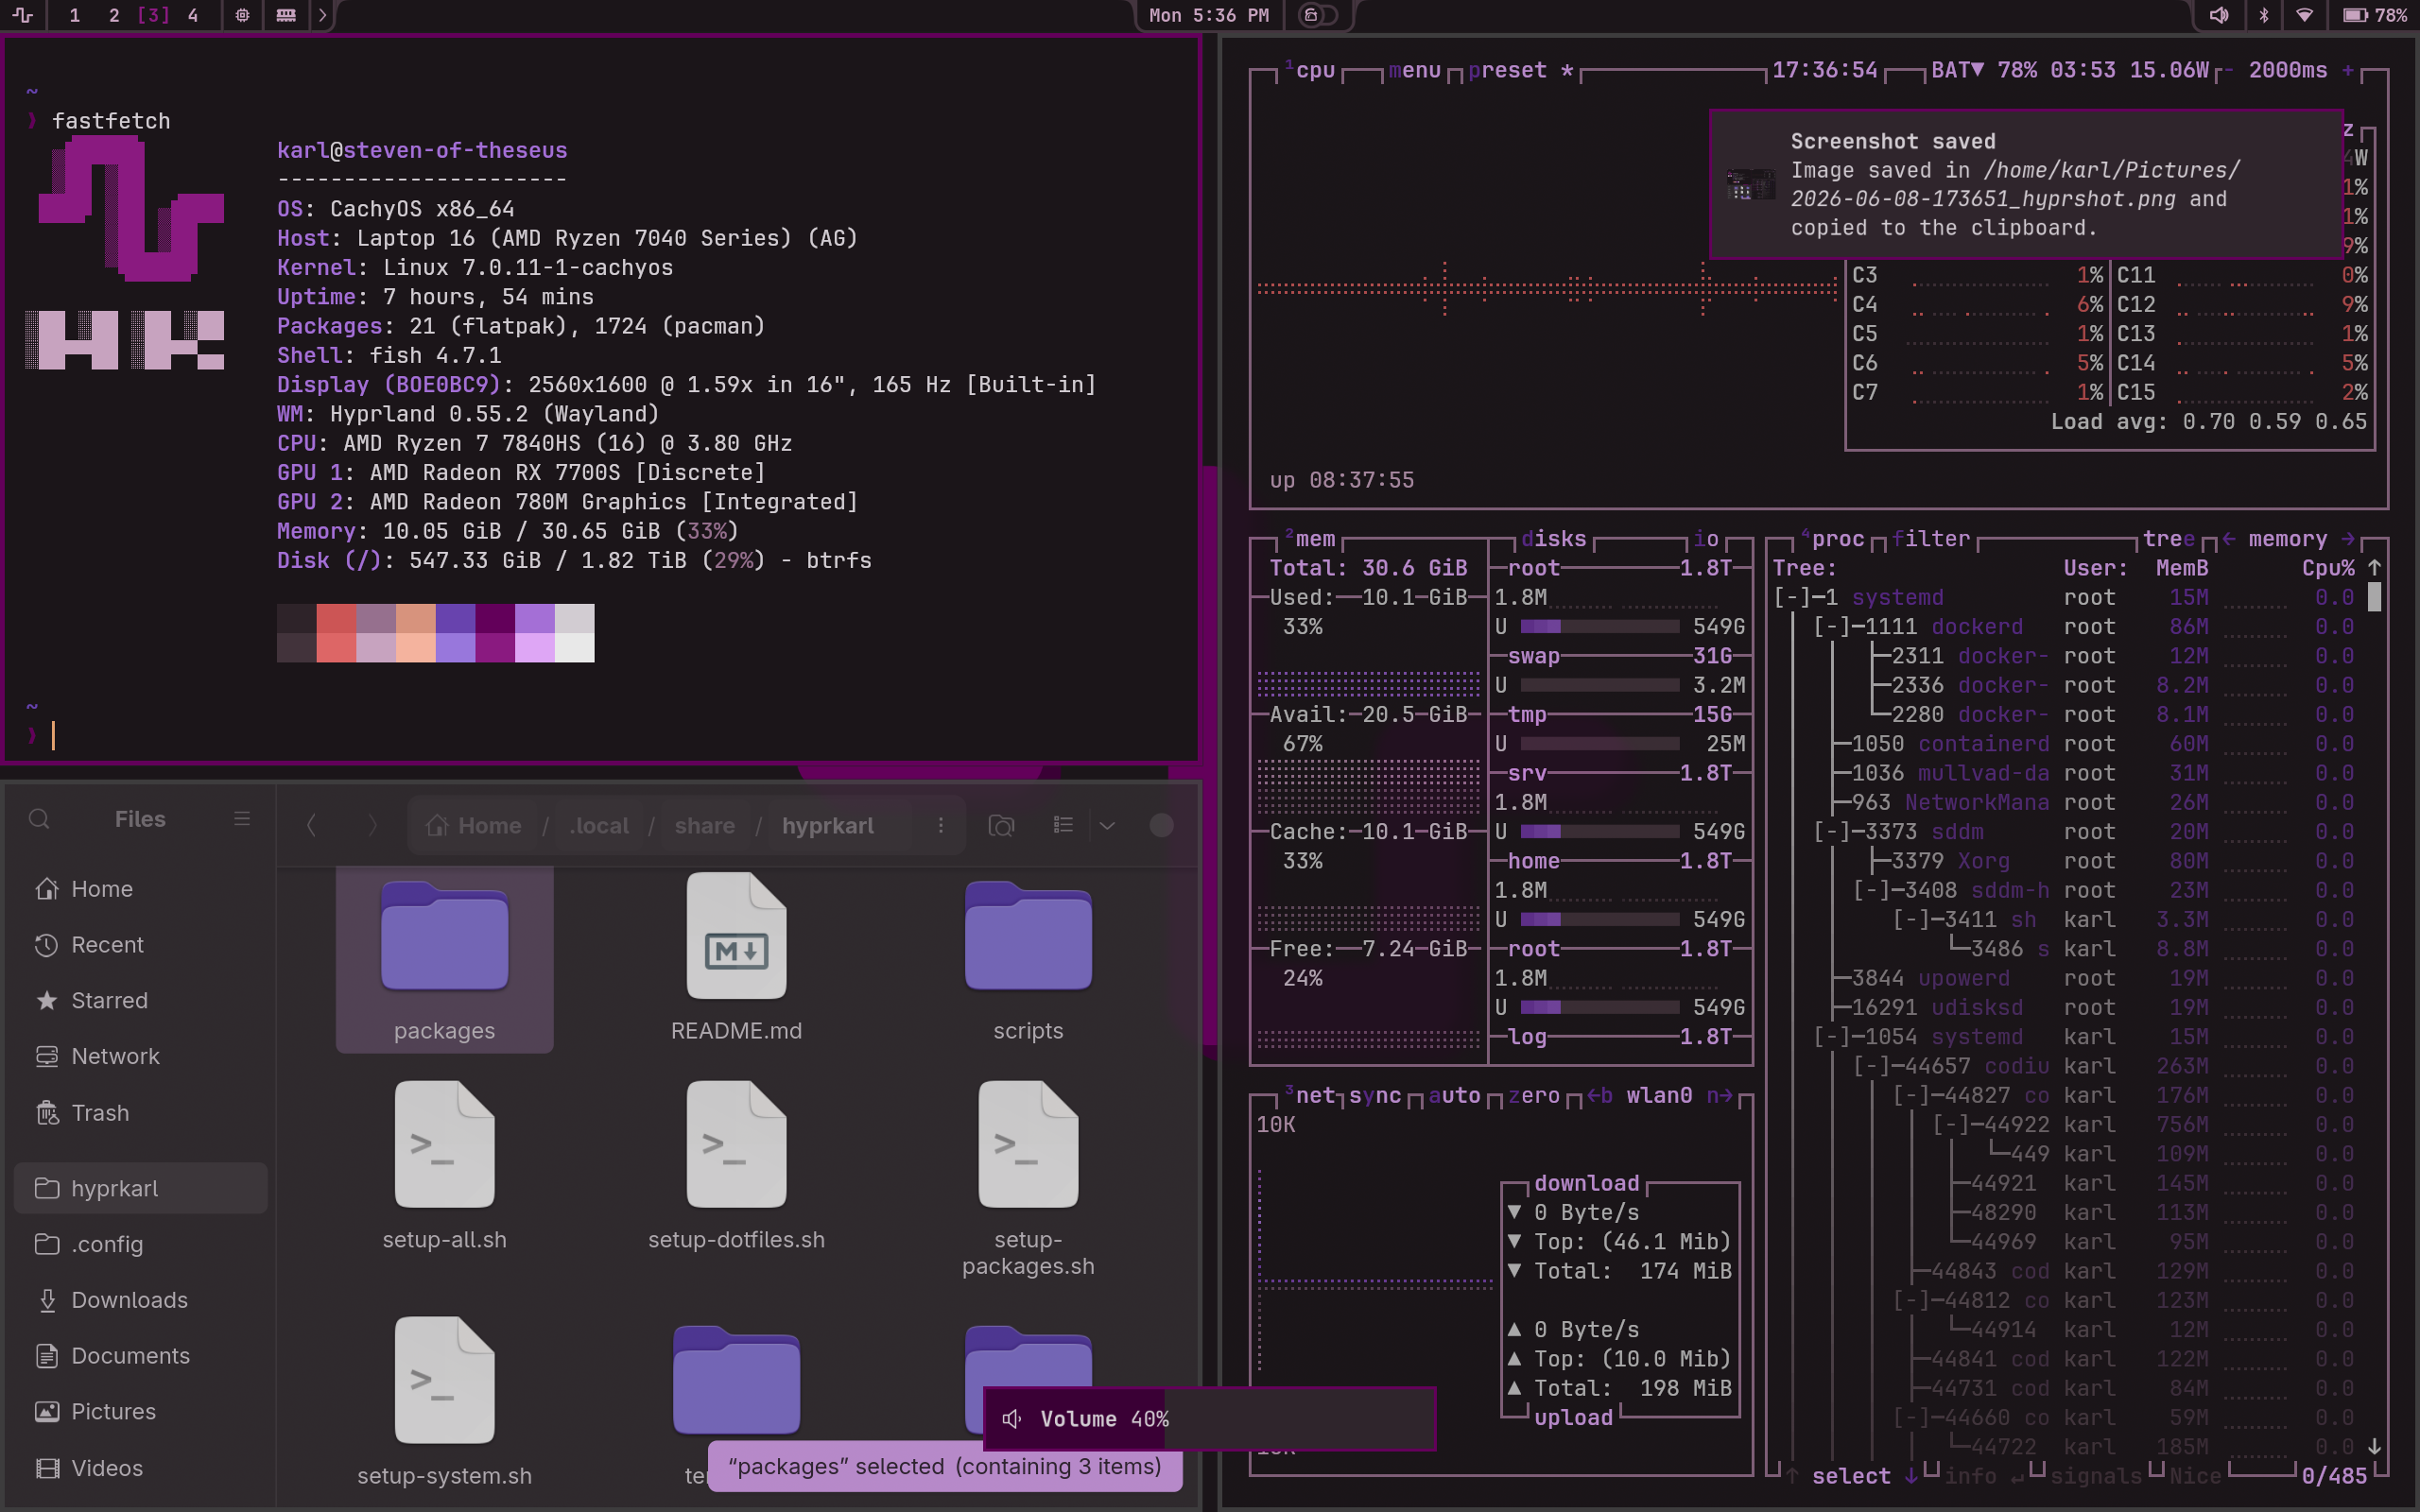
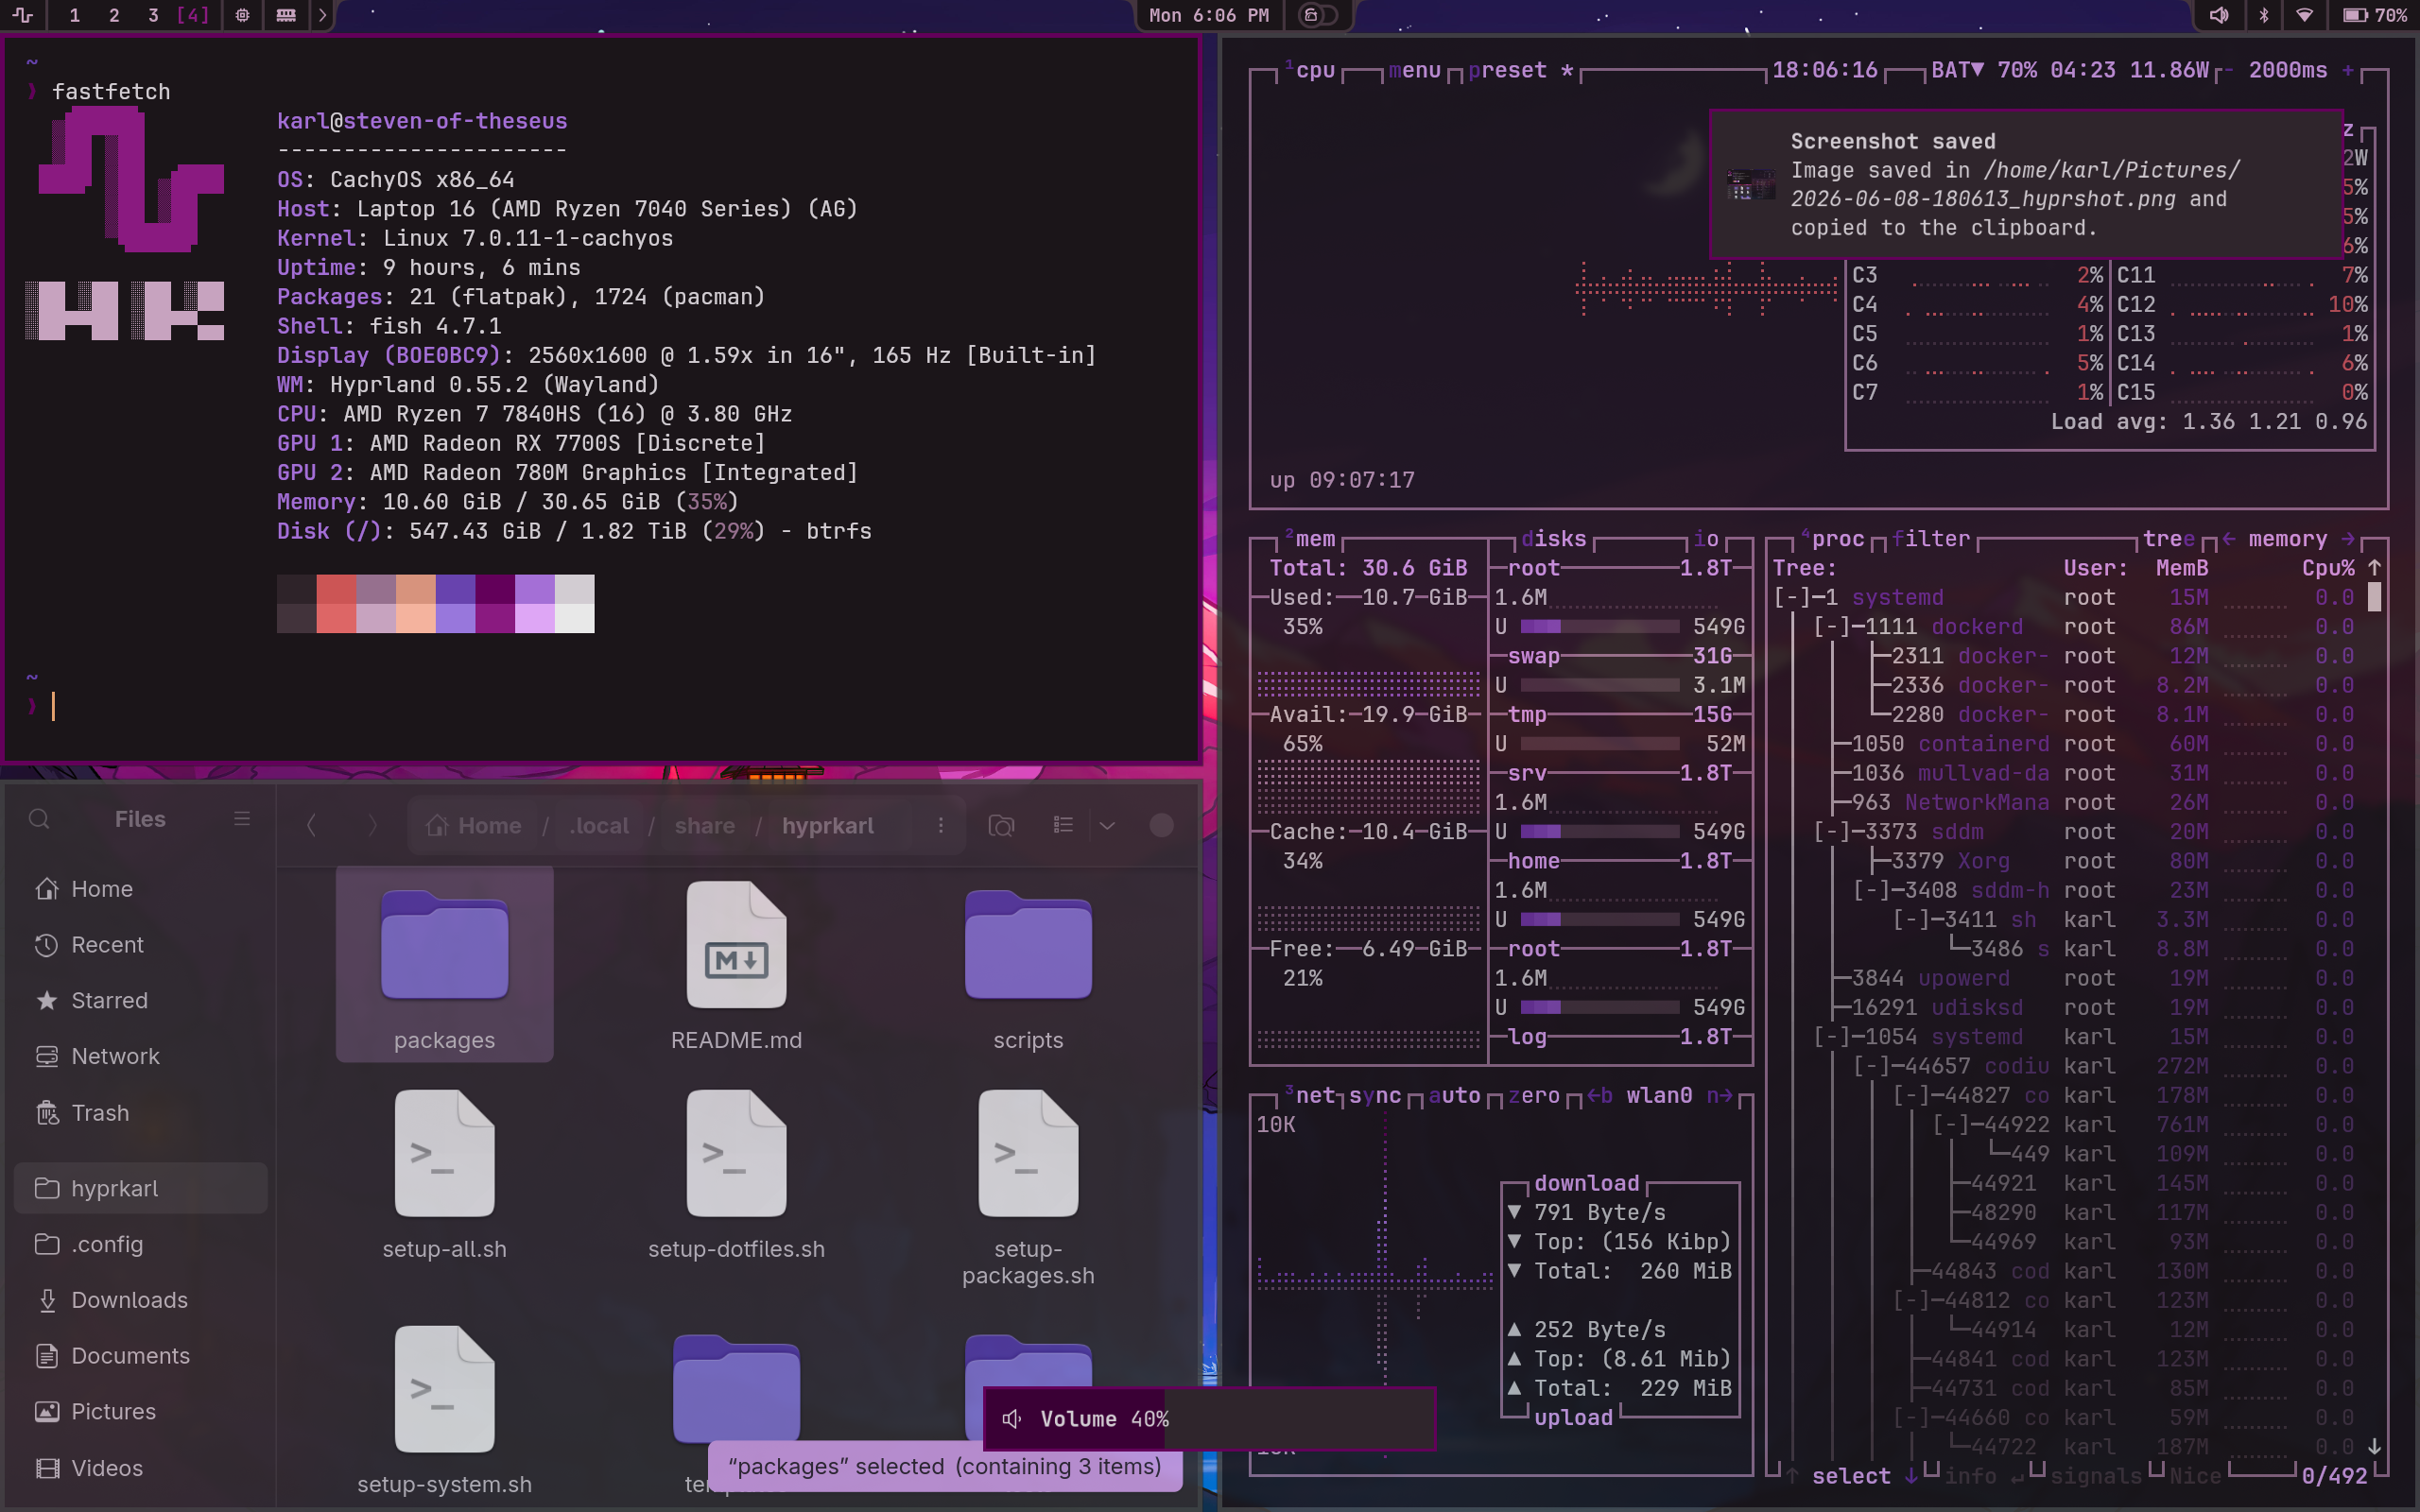
Document theme generator as a way to create themes

diff --git a/docs/themes.md b/docs/themes.md
@@ -100,7 +100,32 @@ Optional theme files:
 
 ## Create a New Theme
 
-Start from an existing theme:
+There are two ways to make a theme.
+
+### Generate one from a color palette (recommended)
+
+The themes shipped with Hyprkarl are produced by a companion tool,
+[hyprkarl-theme-generator](https://github.com/KarlJussila/hyprkarl-theme-generator).
+It renders an entire theme — every file listed under
+[Theme Contents](#theme-contents) — from a single YAML color palette, so the
+colors stay consistent across Hyprland, the bar, terminals, GTK, Qt, and the
+rest. It's the easiest path if you're building a new look, and it pairs well
+with an LLM: hand it a terminal colorscheme (or describe the mood you want) and
+have it write the palette.
+
+```bash
+git clone https://github.com/KarlJussila/hyprkarl-theme-generator.git
+cd hyprkarl-theme-generator
+# create palettes/my-theme/palette.yaml (see that repo's AGENTS.md), then:
+python generate.py my-theme
+export HYPRKARL_PATH=~/.local/share/hyprkarl
+./sync_theme.sh my-theme          # installs it into themes/my-theme/
+hk-theme set my-theme
+```
+
+### Copy an existing theme
+
+For quick tweaks to an existing look, copy a theme directory and edit it in place:
 
 ```bash
 cd ~/.local/share/hyprkarl

diff --git a/README.md b/README.md
@@ -95,8 +95,10 @@ Switch themes from `Hyprkarl Menu -> Config -> Theme` or with:
 hk-theme set <theme-name>
 ```
 
-To build your own theme, copy an existing theme directory and edit it. See
-[docs/themes.md](docs/themes.md) for the full theme layout.
+To build your own theme, either generate one from a color palette with
+[hyprkarl-theme-generator](https://github.com/KarlJussila/hyprkarl-theme-generator)
+(recommended) or copy an existing theme directory and edit it. See
+[docs/themes.md](docs/themes.md) for both approaches and the full theme layout.
 
 Provided themes:
 <details>